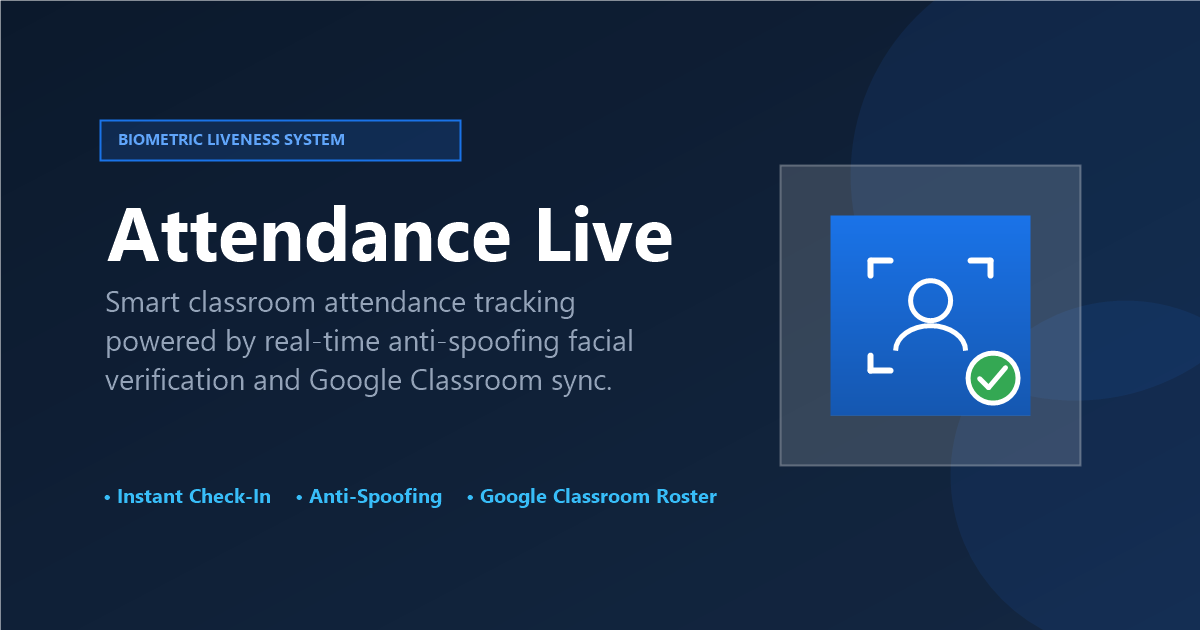
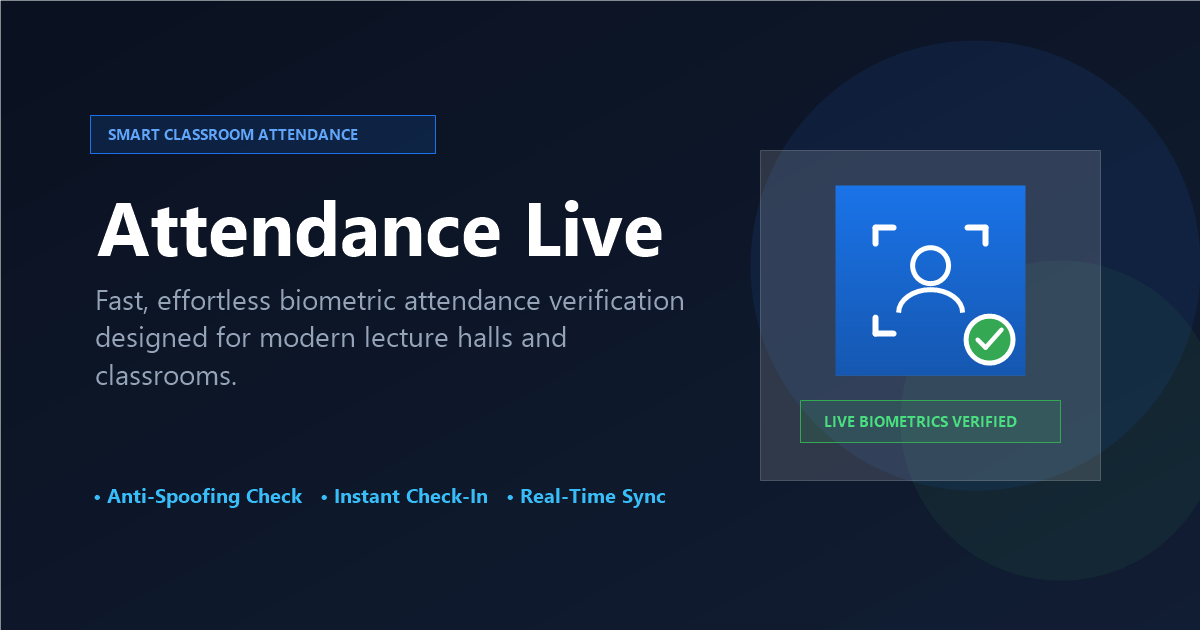
fix(web): remove erroneous Google Classroom sync text from meta tags and social preview image

diff --git a/apps/web/index.html b/apps/web/index.html
@@ -8,8 +8,8 @@
 
     <!-- SEO & Core Metadata -->
     <meta name="title" content="Attendance Live — Smart Classroom Attendance" />
-    <meta name="description" content="Attendance Live — Smart classroom attendance tracking powered by real-time anti-spoofing facial verification and Google Classroom sync." />
-    <meta name="keywords" content="attendance, biometric, facial recognition, liveness detection, anti-spoofing, classroom, education" />
+    <meta name="description" content="Attendance Live — Fast, effortless classroom attendance tracking powered by real-time biometric face verification and anti-spoofing." />
+    <meta name="keywords" content="attendance, biometric, facial recognition, liveness detection, anti-spoofing, classroom, student attendance, attendance tracker" />
     <meta name="author" content="Attendance Live" />
     <meta name="theme-color" content="#1a73e8" />
 
@@ -24,21 +24,21 @@
     <meta property="og:type" content="website" />
     <meta property="og:site_name" content="Attendance Live" />
     <meta property="og:title" content="Attendance Live — Smart Classroom Attendance" />
-    <meta property="og:description" content="Attendance Live — Smart classroom attendance tracking powered by real-time anti-spoofing facial verification and Google Classroom sync." />
+    <meta property="og:description" content="Attendance Live — Fast, effortless classroom attendance tracking powered by real-time biometric face verification and anti-spoofing." />
     <meta property="og:url" content="/" />
     <meta property="og:image" content="/og-image.png" />
     <meta property="og:image:secure_url" content="/og-image.png" />
     <meta property="og:image:type" content="image/png" />
     <meta property="og:image:width" content="1200" />
     <meta property="og:image:height" content="630" />
-    <meta property="og:image:alt" content="Attendance Live — Smart Classroom Attendance & Biometric Liveness System" />
+    <meta property="og:image:alt" content="Attendance Live — Smart Classroom Attendance with Biometric Verification" />
 
     <!-- Twitter / X Card Metadata -->
     <meta name="twitter:card" content="summary_large_image" />
     <meta name="twitter:title" content="Attendance Live — Smart Classroom Attendance" />
-    <meta name="twitter:description" content="Attendance Live — Smart classroom attendance tracking powered by real-time anti-spoofing facial verification and Google Classroom sync." />
+    <meta name="twitter:description" content="Attendance Live — Fast, effortless classroom attendance tracking powered by real-time biometric face verification and anti-spoofing." />
     <meta name="twitter:image" content="/og-image.png" />
-    <meta name="twitter:image:alt" content="Attendance Live — Smart Classroom Attendance & Biometric Liveness System" />
+    <meta name="twitter:image:alt" content="Attendance Live — Smart Classroom Attendance with Biometric Verification" />
     <link rel="preconnect" href="https://fonts.googleapis.com" />
     <link rel="preconnect" href="https://fonts.gstatic.com" crossorigin />
     <link href="https://fonts.googleapis.com/css2?family=Google+Sans:wght@400;500;700&family=Inter:wght@400;500;600;700;800&family=Roboto:wght@400;500;700&display=swap" rel="stylesheet" />
